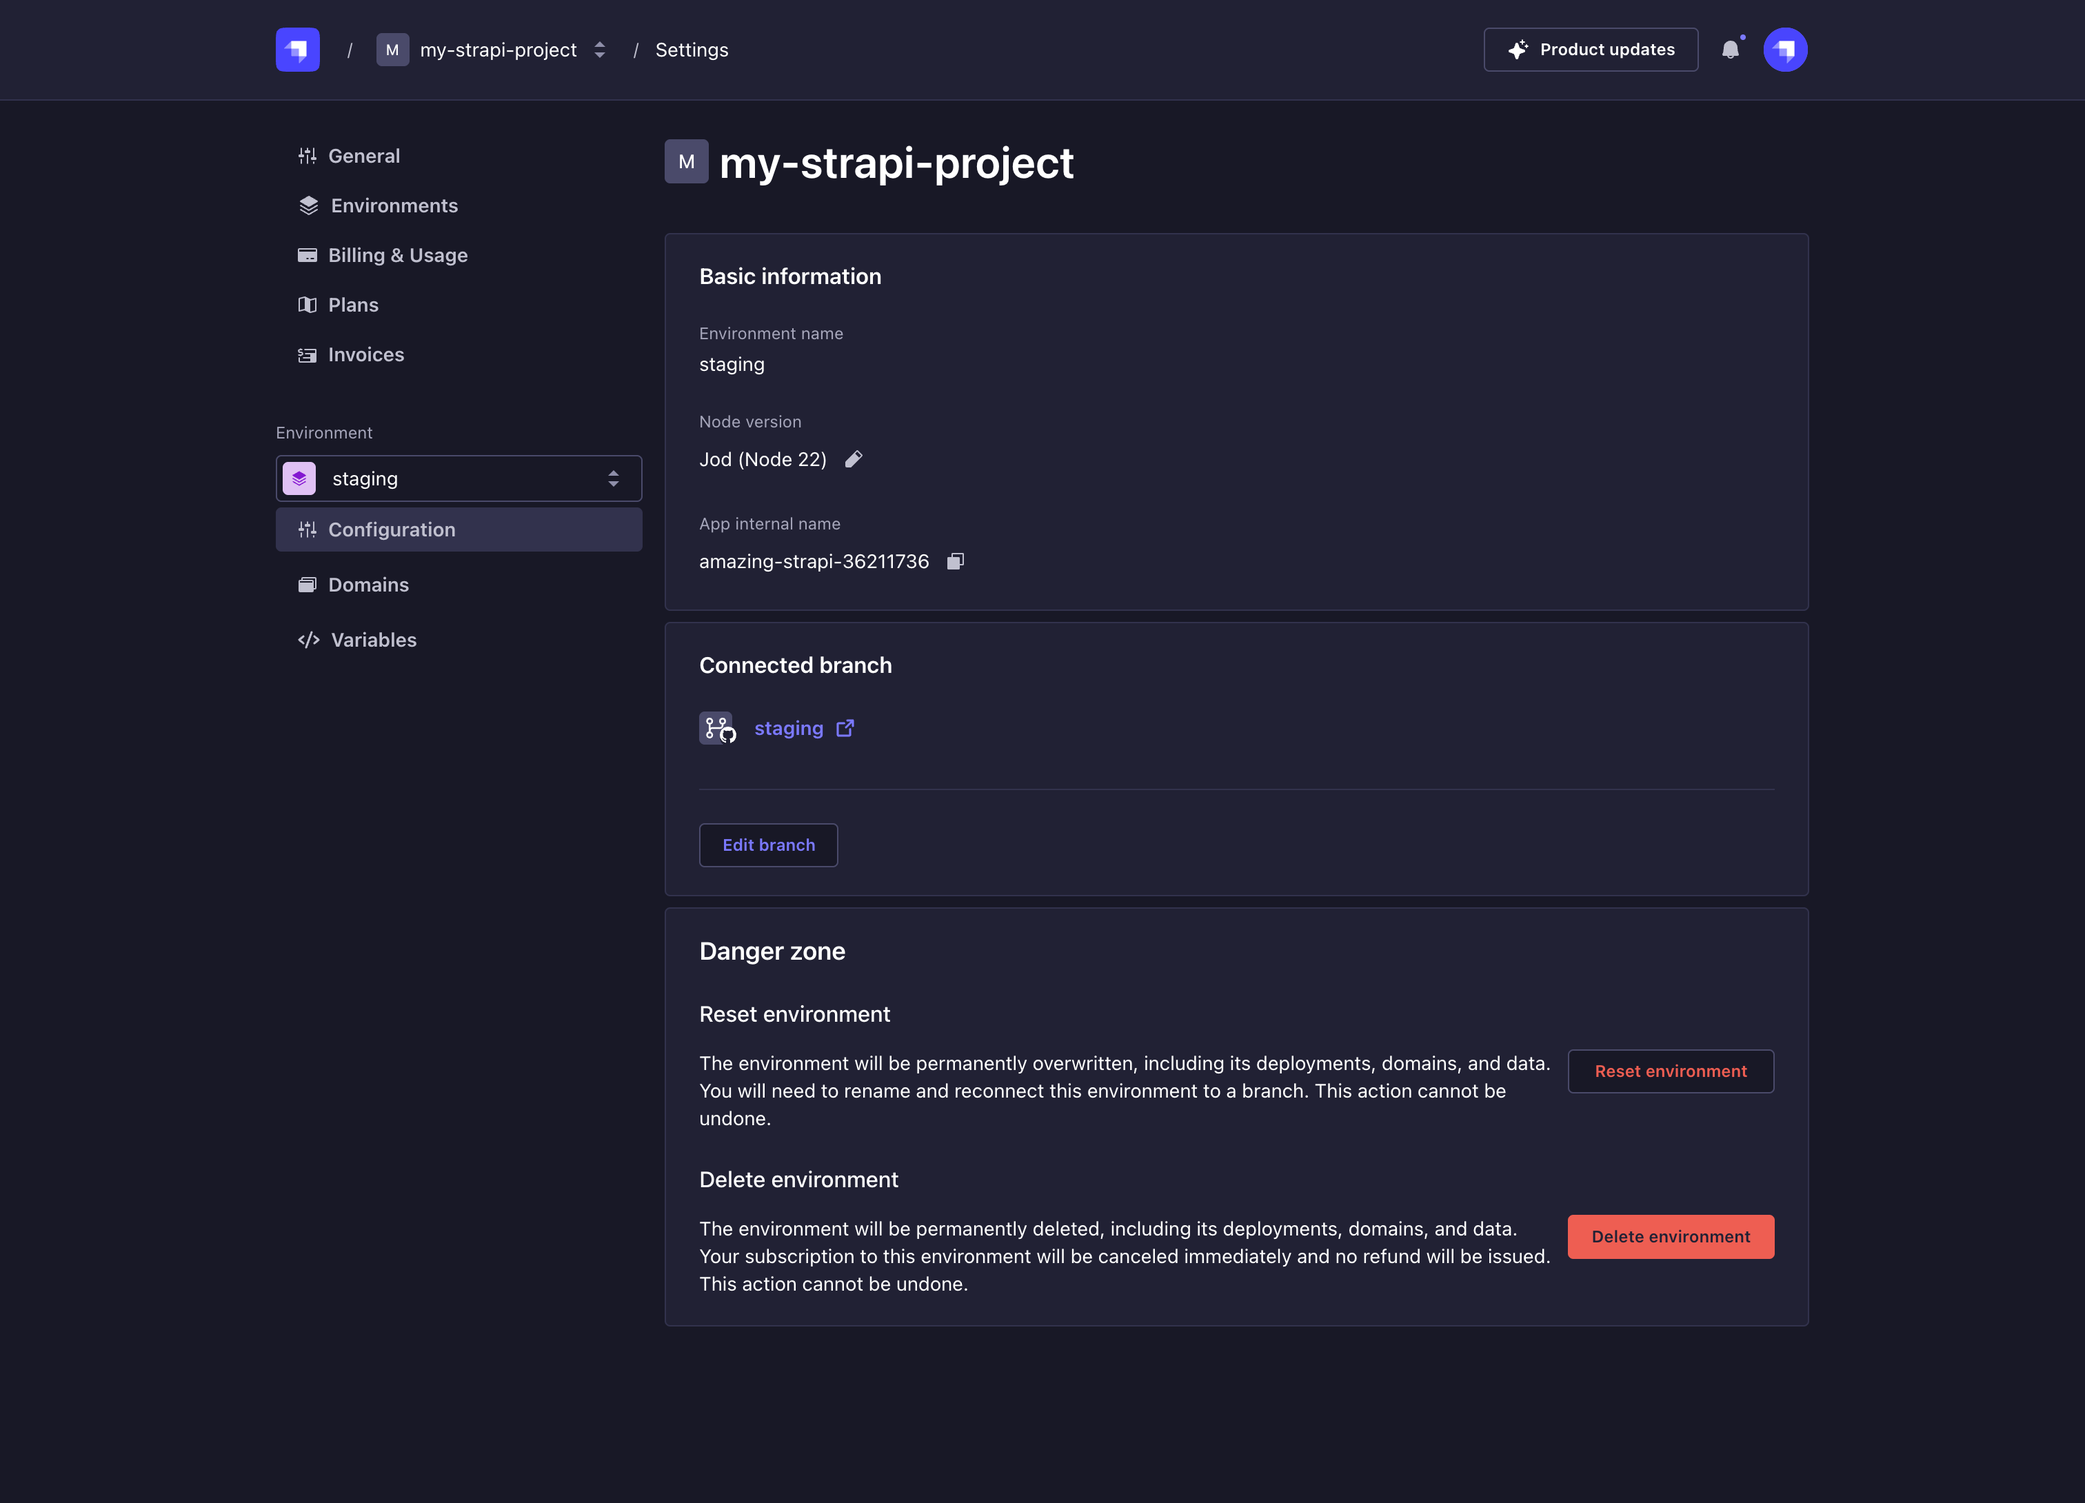
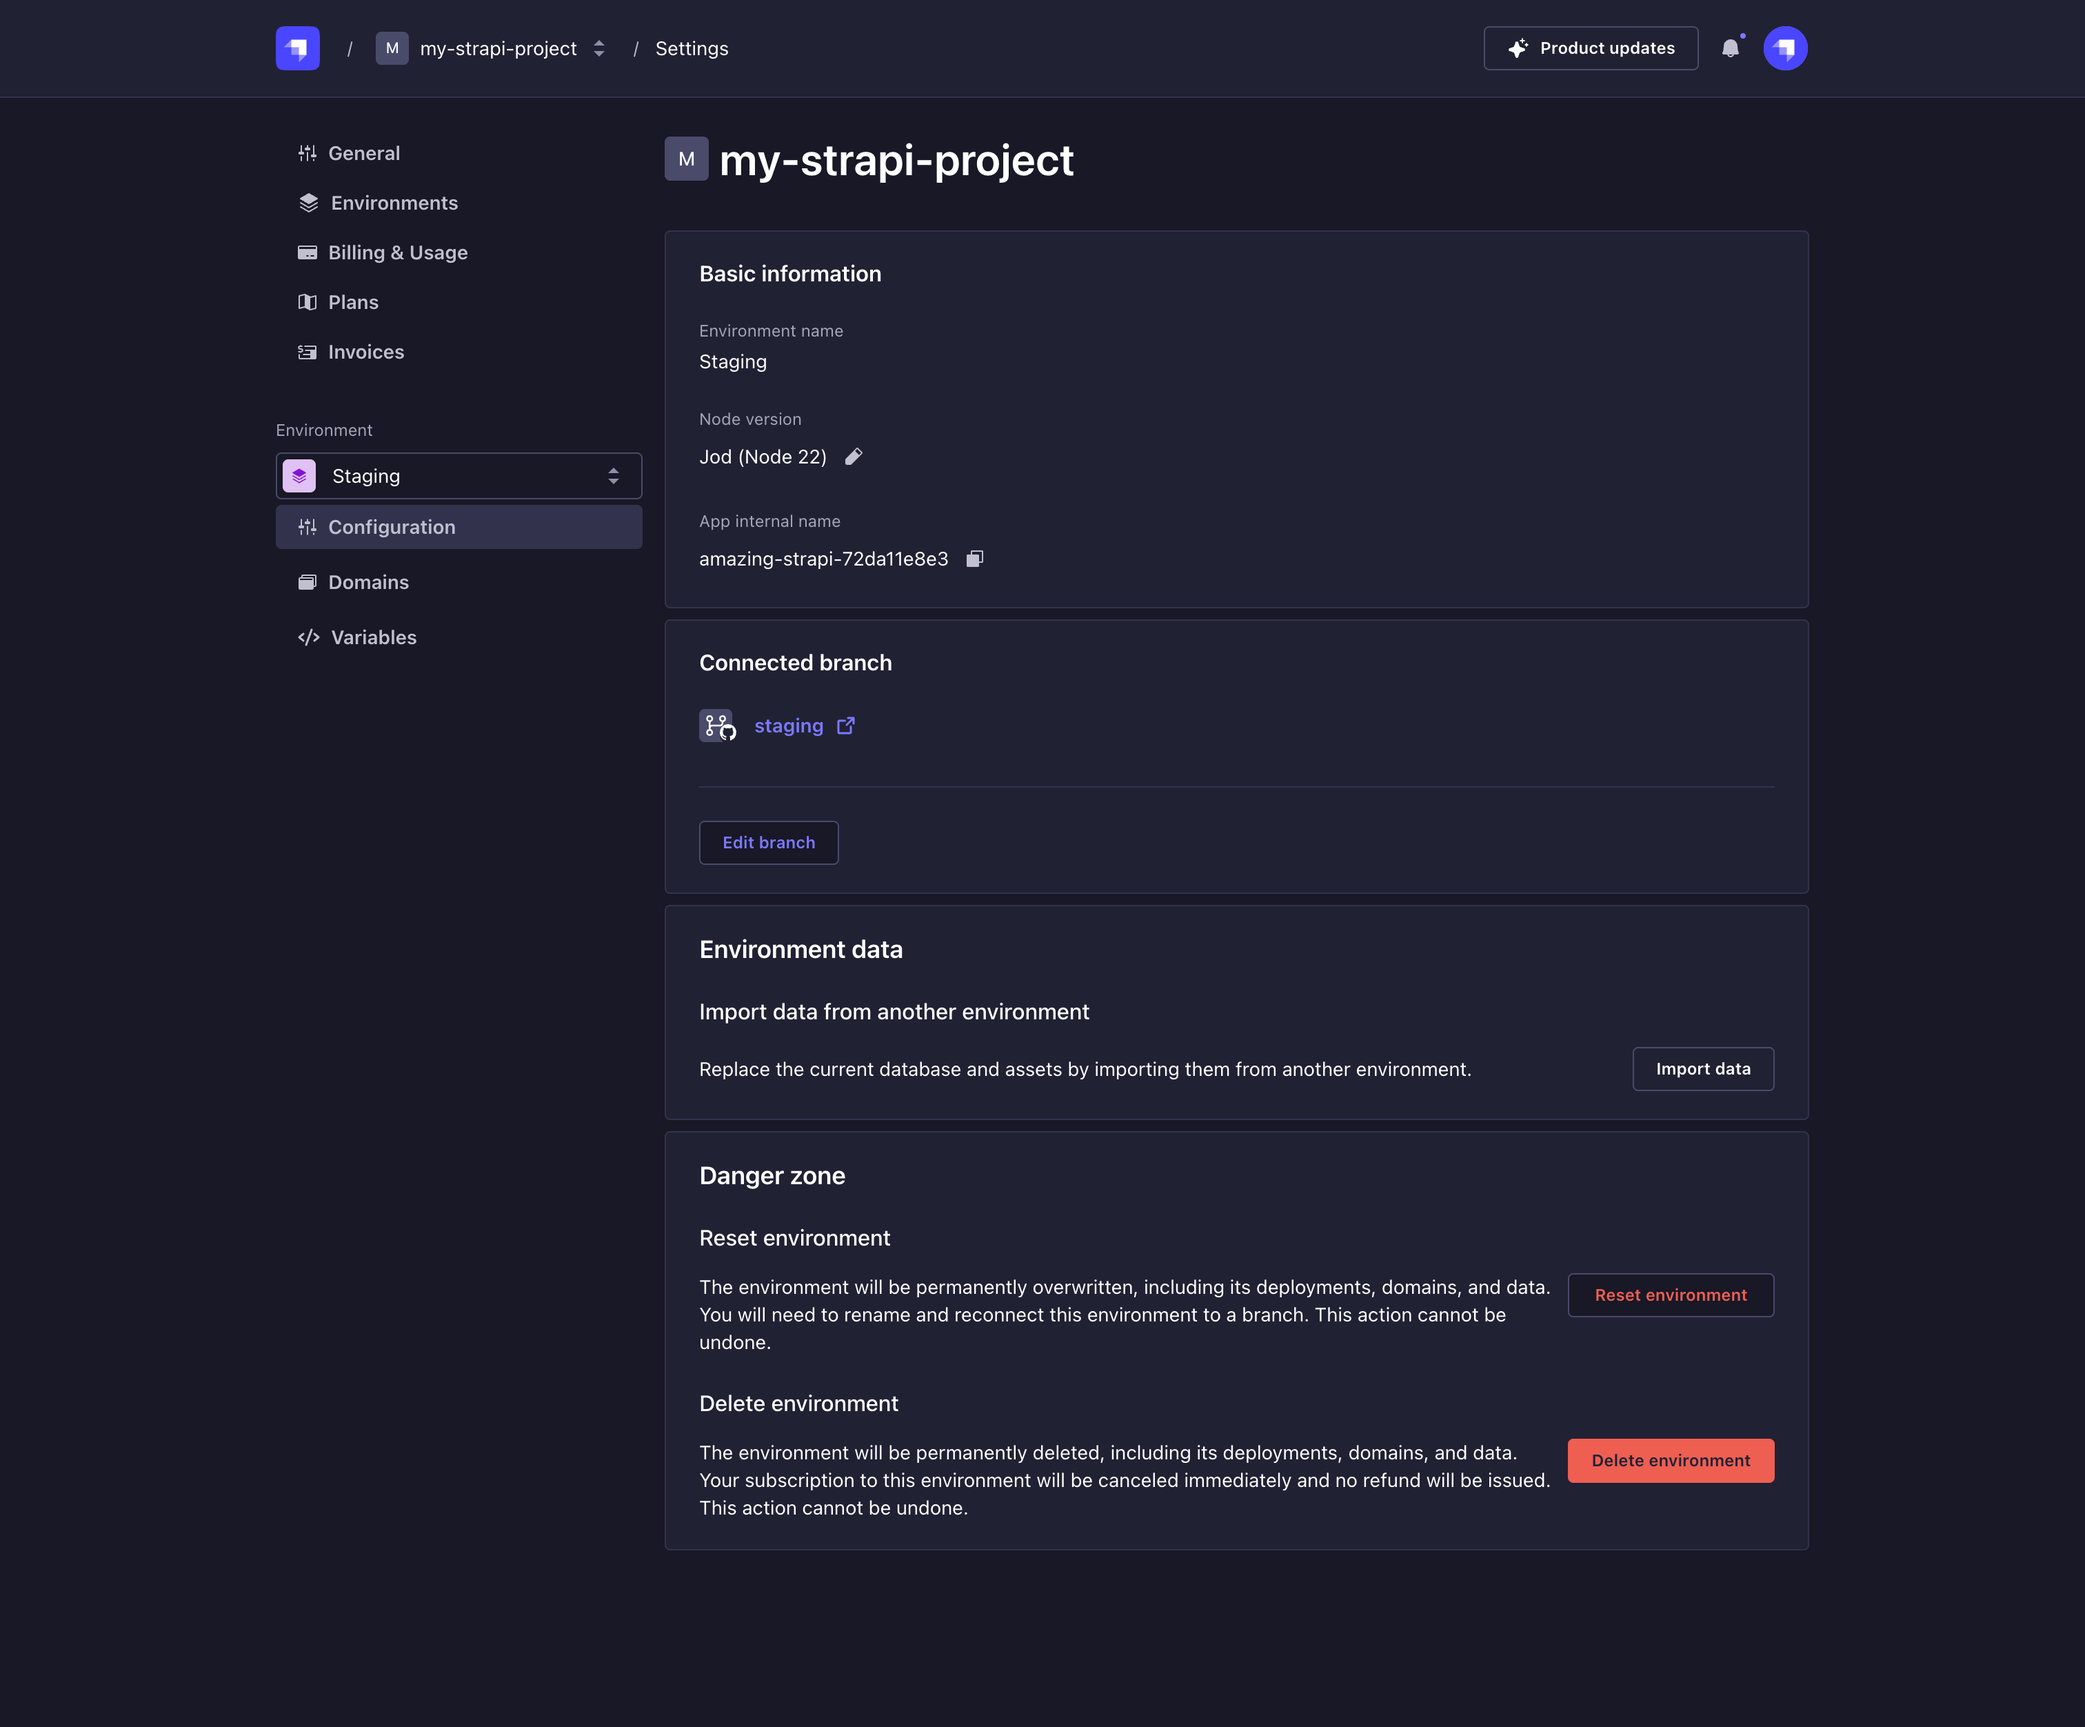
data transfer content update

diff --git a/docusaurus/docs/cloud/projects/settings.md b/docusaurus/docs/cloud/projects/settings.md
@@ -309,6 +309,7 @@ The <Icon name="faders" /> *Configuration* tab for the environment-level setting
   - the Node version of the environment: to change the Node version of the project (see [Modifying Node version](#modifying-node-version)).
   - the app's internal name for the environment, which can be useful for debug & support purposes.
 - *Connected branch*: to change the branch of the GitHub repository used for your environment (see [Editing Git branch](#editing-git-branch)). Also allows to enable/disable the "deploy on push" option.
+- *Environment data*: to transfer data from another environment within the same project (see [Transferring data between environments](#transferring-data-between-environments)).
 - *Danger zone*: to reset or permanently delete your Strapi Cloud project's environment (see [Resetting & Deleting environment](#resetting--deleting-environment)).
 
 <ThemedImage
@@ -340,6 +341,31 @@ The environment's Node version is based on the one chosen at the creation of the
     | Deploy the project on every commit pushed to this branch | Tick the box to automatically trigger a new deployment whenever a new commit is pushed to the selected branch. Untick it to disable the option. |
 
 3. Click on the **Save & deploy** button for the changes to take effect.
+
+#### Transferring data between environments {#transferring-data-between-environments}
+<CloudProBadge /> <CloudScaleBadge />
+
+The data transfer feature allows you to transfer the entire CMS content (database and assets) from one environment to another within the same project. This is useful for testing changes in a secondary environment with up-to-date production data, or for preparing and staging content in a secondary environment before taking it to production.
+
+:::caution Data transfers are destructive
+Transferring data to an environment will permanently overwrite all existing data and assets in the target environment. The source environment's data remains unaffected, and its CMS can be accessed during the transfer. Environment settings (such as variables and domains) are not affected by the transfer.
+:::
+
+:::prerequisites
+- The feature is only available for transfers toward a secondary environment (not the production environment).
+- The source and target environments must be fully created and deployed.
+- Only project owners can initiate and manage ongoing transfers.
+- Transfers cannot be initiated on projects that are suspended.
+:::
+
+1. In the *Environment data* section of the <Icon name="faders" /> *Configuration* tab, click on the **Import data** button.
+2. In the modal that opens, select the source environment from the dropdown list. Only fully created and deployed environments are available as sources.
+3. Click on **Import data** to proceed, and follow the steps to confirm the transfer.
+4. Once initiated, you will be redirected to the environment's dashboard where you can monitor the transfer's progress. Once the transfer is completed, the dashboard will refresh, showing both the ongoing and historic deployments.
+
+:::note
+The CMS of the target environment will be inaccessible whilst the transfer is ongoing. You can cancel an ongoing transfer, but this will leave the target environment empty. If an error occurs during the transfer, you will have the option to retry or cancel.
+:::
 
 #### Resetting & Deleting environment
 
